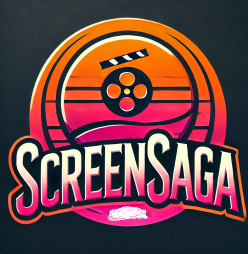
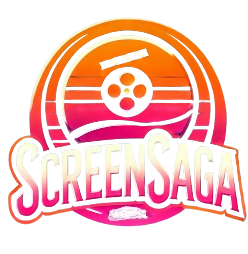
added social media profiles

diff --git a/ScreenSaga/src/components/footer/Footer.jsx b/ScreenSaga/src/components/footer/Footer.jsx
@@ -22,26 +22,22 @@ const Footer = () => {
                     <li className="menuItem">FAQ</li>
                 </ul>
                 <div className="infoText">
-                    Lorem ipsum dolor sit amet, consectetur adipiscing elit, sed
-                    do eiusmod tempor incididunt ut labore et dolore magna
-                    aliqua. Ut enim ad minim veniam, quis nostrud exercitation
-                    ullamco laboris nisi ut aliquip ex ea commodo consequat.
-                    Duis aute irure dolor in reprehenderit in voluptate velit
-                    esse cillum dolore eu fugiat nulla pariatur.
+                    This is a web app which provides details about shows and movies.
                 </div>
                 <div className="socialIcons">
-                    <span className="icon">
+                    {/* Add your social media profile links in the href */}
+                    <a href="https://www.facebook.com/abhipz163" target="_blank" rel="noopener noreferrer" className="icon">
                         <FaFacebookF />
-                    </span>
-                    <span className="icon">
+                    </a>
+                    <a href="https://www.instagram.com/abhishekpandey7344" target="_blank" rel="noopener noreferrer" className="icon">
                         <FaInstagram />
-                    </span>
-                    <span className="icon">
+                    </a>
+                    <a href="https://x.com/ankushpan694" target="_blank" rel="noopener noreferrer" className="icon">
                         <FaTwitter />
-                    </span>
-                    <span className="icon">
+                    </a>
+                    <a href="https://www.linkedin.com/in/abhishek-pandey-05191a300" target="_blank" rel="noopener noreferrer" className="icon">
                         <FaLinkedin />
-                    </span>
+                    </a>
                 </div>
             </ContentWrapper>
         </footer>

diff --git a/ScreenSaga/src/components/header/style.scss b/ScreenSaga/src/components/header/style.scss
@@ -27,12 +27,32 @@
         align-items: center;
         justify-content: space-between;
     }
+    // .logo {
+    //     cursor: pointer;
+    //     img {
+    //         height: 70px;
+    //         width : 100px;
+    //     }
+    // }
+
     .logo {
         cursor: pointer;
-        img {
-            height: 50px;
-        }
+        background-color: transparent; 
+        padding: 0;                    
+        margin: 0;                     
+        display: inline-block;          
     }
+    
+    .logo img {
+        height: 70px;
+        width: 130px;
+        background-color: transparent;  
+        display: block;                 
+        border: none;                   
+        object-fit: contain;            
+    }
+    
+
     .menuItems {
         list-style-type: none;
         display: none;

diff --git a/ScreenSaga/src/App.css b/ScreenSaga/src/App.css
@@ -6,7 +6,7 @@
 }
 
 .logo {
-  height: 6em;
+  height: 600px;
   padding: 1.5em;
   will-change: filter;
 }
